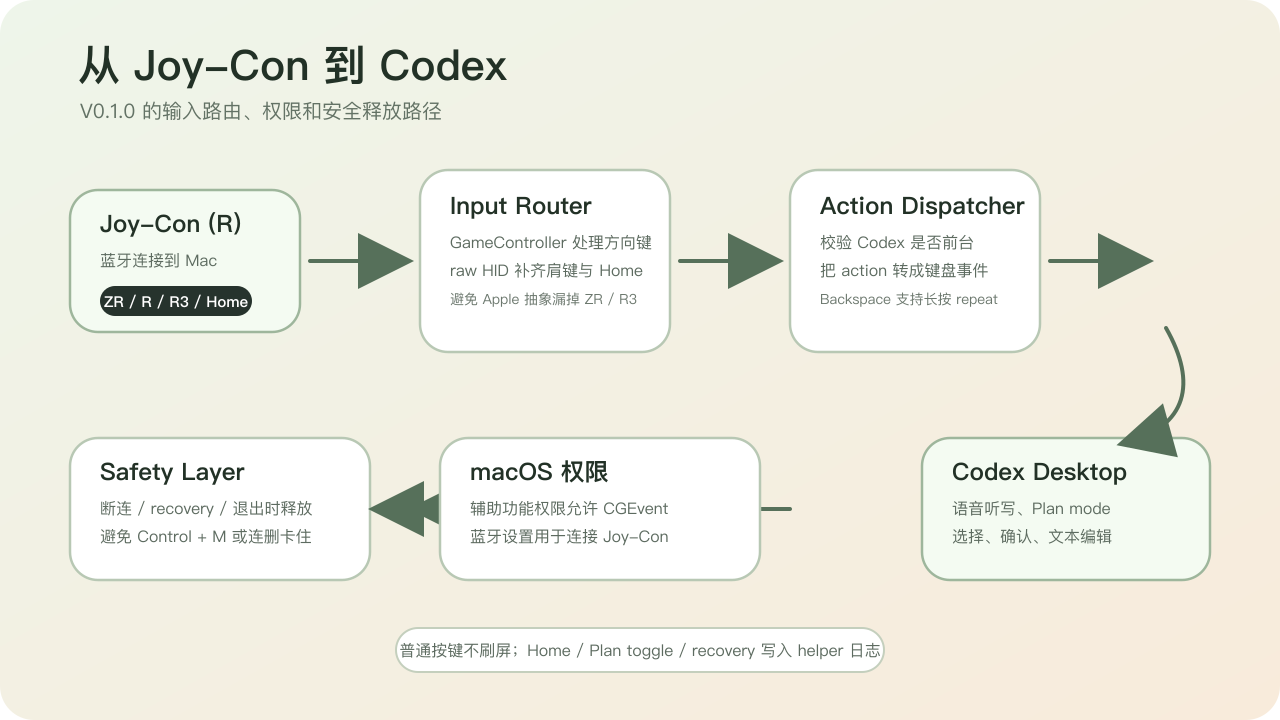
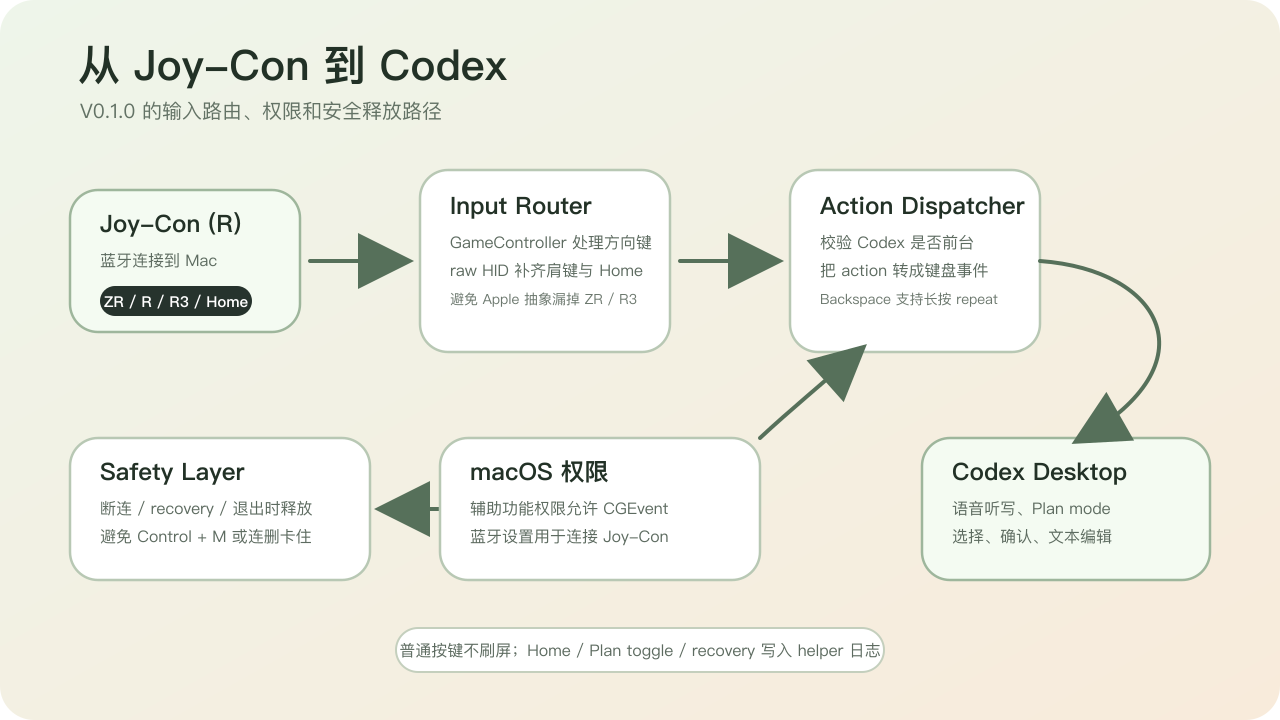
Fix README image rendering and workflow diagram bindings

diff --git a/README.md b/README.md
@@ -4,7 +4,7 @@
 
 > 当前版本：`v0.1.0` 试玩版。项目专注于 macOS + Codex Desktop + 右手 `Joy-Con (R)` 的个人效率工作流，不隶属于 Nintendo、OpenAI 或 Apple。
 
-![右手 Joy-Con 键位图](docs/assets/keymap.svg)
+![右手 Joy-Con 键位图](docs/assets/keymap.png)
 
 ## 它解决什么问题
 
@@ -18,7 +18,7 @@
 - 使用 `Home` 触发一次控制器恢复扫描。
 - 菜单栏展示 Joy-Con 连接与电量状态，低电量时发出提示音。
 
-![语音到 Codex 的工作流](docs/assets/workflow.svg)
+![语音到 Codex 的工作流](docs/assets/workflow.png)
 
 ## 默认键位
 
@@ -75,7 +75,7 @@ jch logs
 6. 回到 Codex，把焦点放进 composer 或 Plan 选项区域。
 7. 按住 `ZR` 说话，松开停止听写。
 
-![菜单栏入口示意图](docs/assets/menu.svg)
+![菜单栏入口示意图](docs/assets/menu.png)
 
 ## 菜单栏
 
